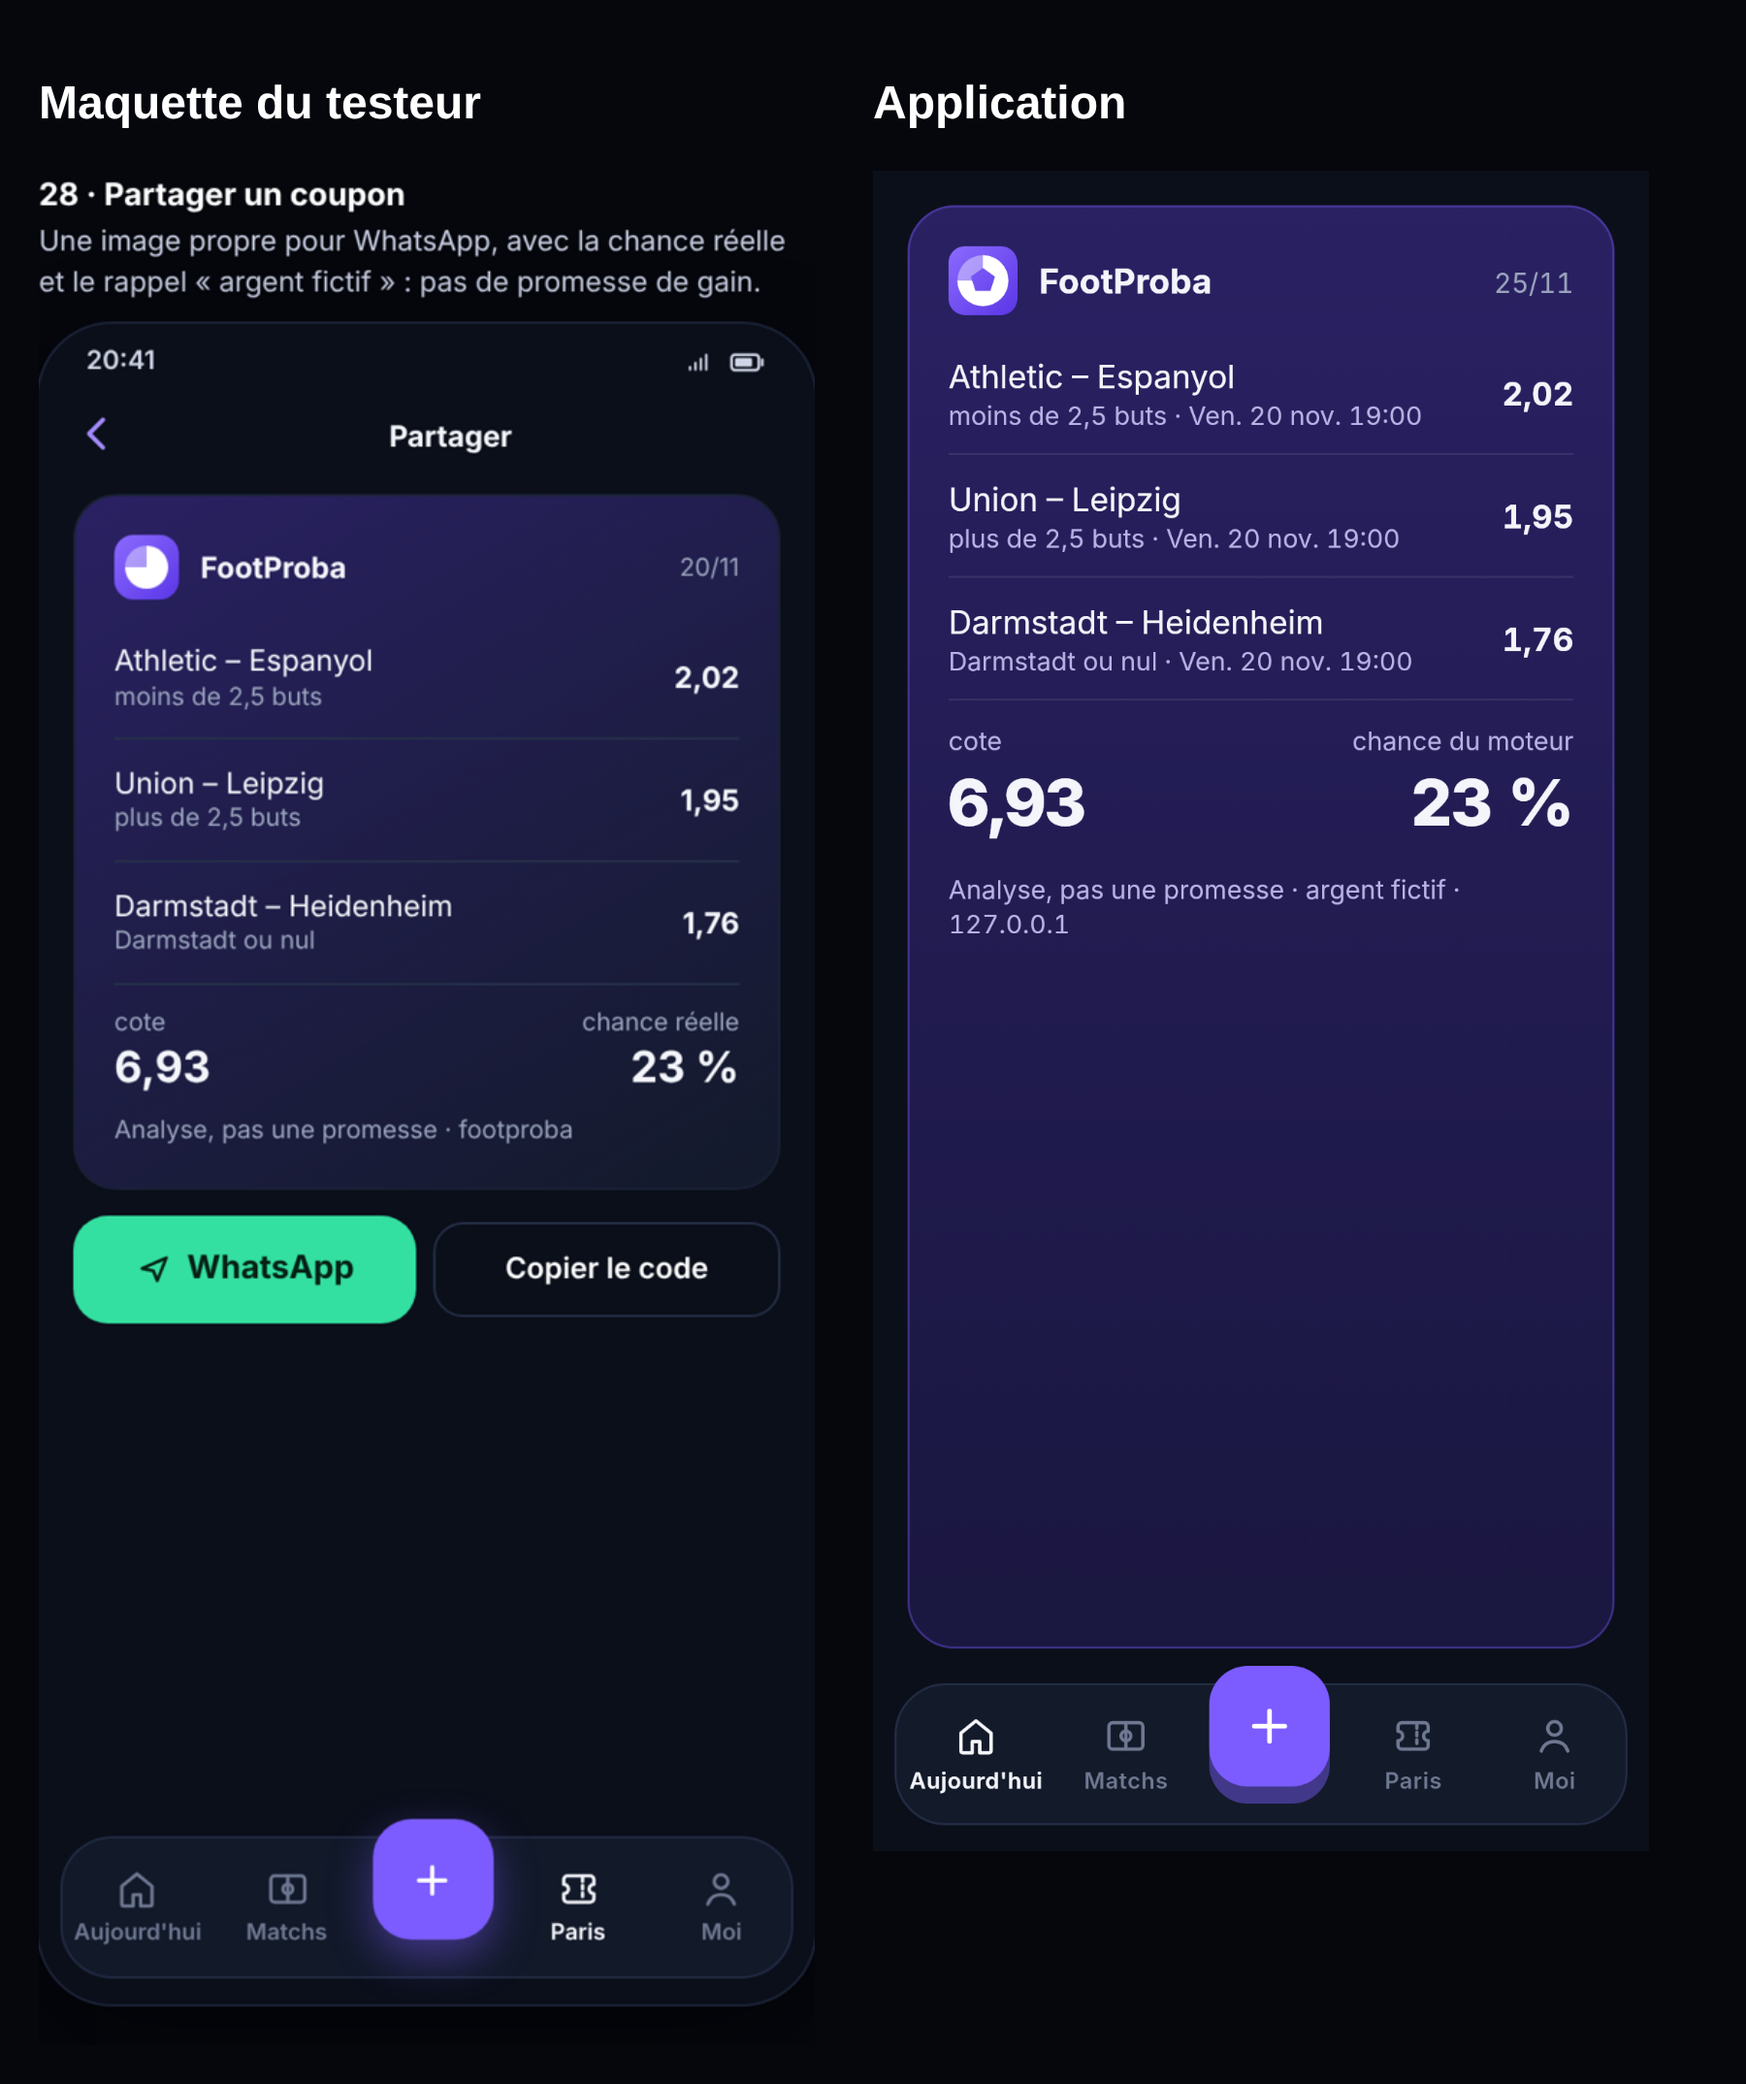
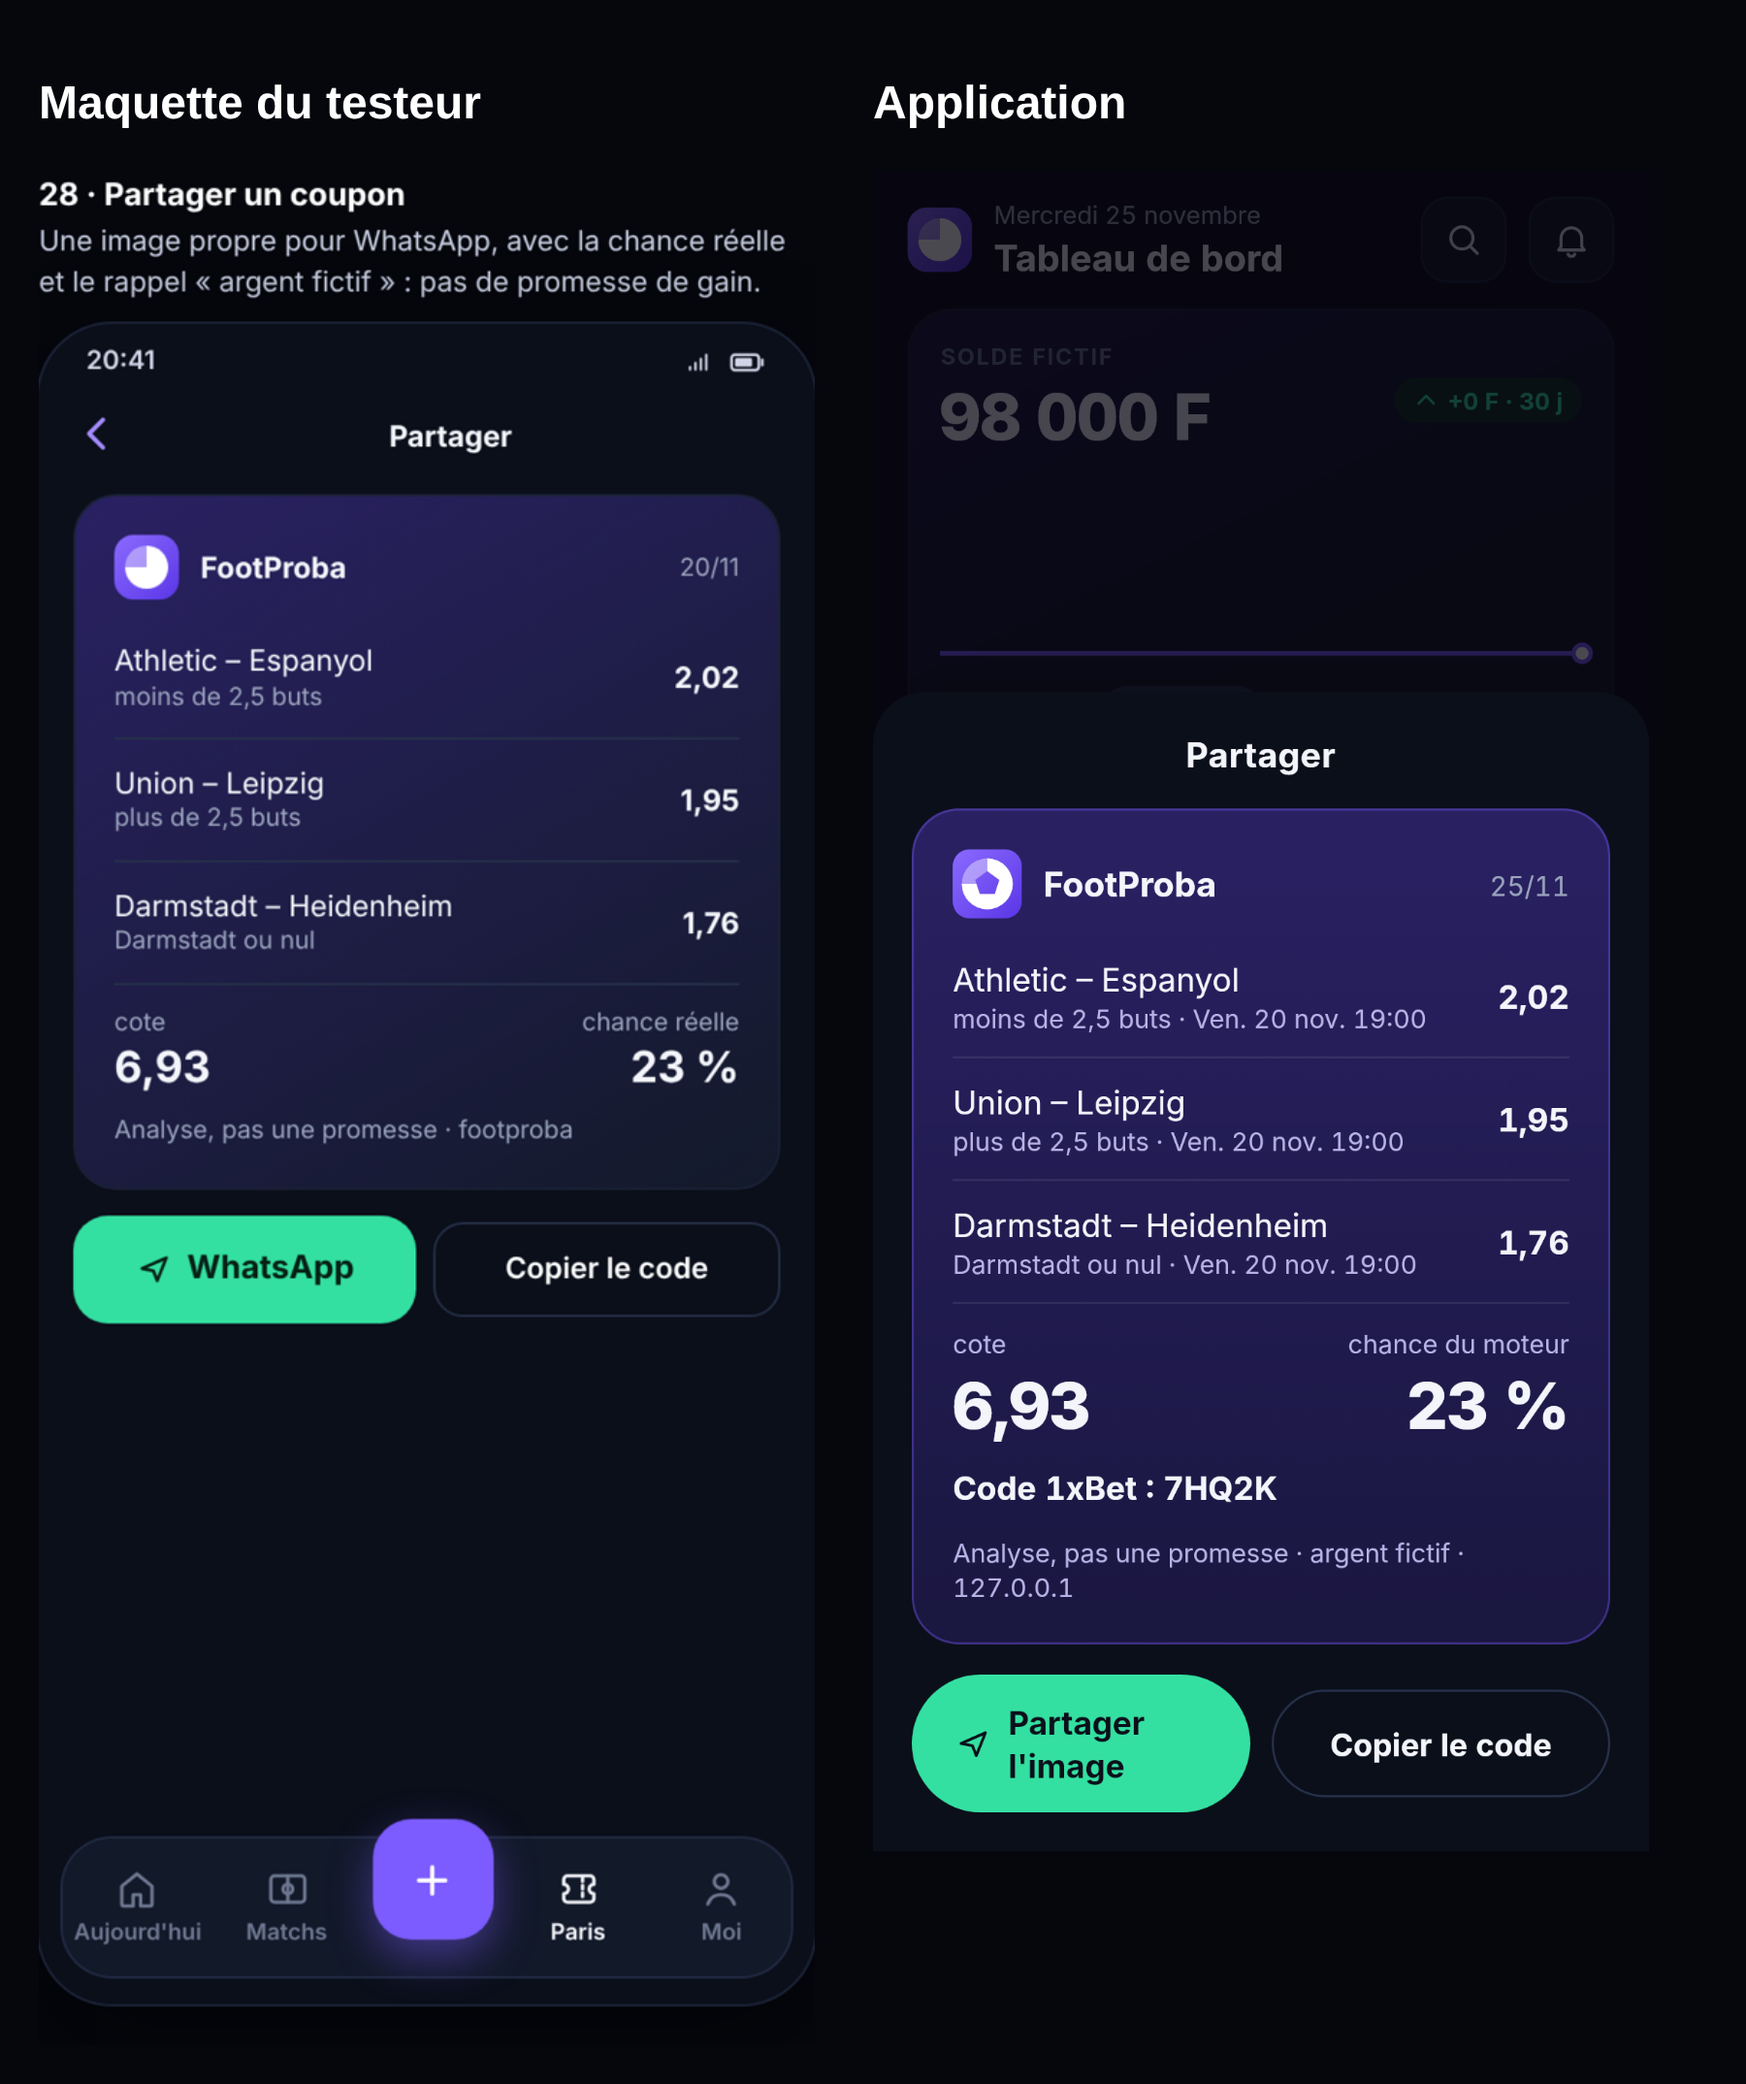
Maquette 28 : écran de partage
Titre « Partager », image à sa taille (plus d'espace vide), bouton vert « Partager »
et « Copier le code » 1xBet à côté quand le coupon en a un.

Claude-Session: https://claude.ai/code/session_01D1BNdygW426Eq3G75yyrXh

diff --git a/app/lib/screens/share_coupon.dart b/app/lib/screens/share_coupon.dart
@@ -2,6 +2,7 @@ import 'dart:ui' as ui;
 
 import 'package:flutter/material.dart';
 import 'package:flutter/rendering.dart';
+import 'package:flutter/services.dart';
 
 import '../api/models.dart';
 import '../format.dart';
@@ -27,7 +28,7 @@ Future<void> shareCoupon(
   return showModalBottomSheet<void>(
     context: context,
     isScrollControlled: true,
-    backgroundColor: Fp.background,
+    backgroundColor: V.bg,
     builder: (context) => SafeArea(
       child: SingleChildScrollView(
         padding: const EdgeInsets.fromLTRB(18, 18, 18, 18),
@@ -35,29 +36,61 @@ Future<void> shareCoupon(
           mainAxisSize: MainAxisSize.min,
           crossAxisAlignment: CrossAxisAlignment.stretch,
           children: [
-            Text('Partager le coupon', style: Fp.title(17)),
-            const SizedBox(height: 12),
+            Text('Partager', textAlign: TextAlign.center, style: V.b(16)),
+            const SizedBox(height: 14),
             RepaintBoundary(
               key: key,
               child: CouponImage(sels: sels, coupon: coupon, profile: profile, big: big),
             ),
             const SizedBox(height: 14),
-            FilledButton.icon(
-              onPressed: () async {
-                try {
-                  final boundary = key.currentContext!.findRenderObject()! as RenderRepaintBoundary;
-                  final image = await boundary.toImage(pixelRatio: 3);
-                  final data = await image.toByteData(format: ui.ImageByteFormat.png);
-                  await ShareBridge.shareImage(
-                    data!.buffer.asUint8List(),
-                    'Mon coupon FootProba (argent fictif)',
-                  );
-                } catch (_) {
-                  showMessage('Partage impossible sur cet appareil.', error: true);
-                }
-              },
-              icon: const Icon(Icons.ios_share_rounded, size: 18),
-              label: const Text('Partager l\'image'),
+            // Maquette 28 : partager en vert, « Copier le code » à côté s'il y a un code 1xBet.
+            Row(
+              children: [
+                Expanded(
+                  child: FilledButton.icon(
+                    style: FilledButton.styleFrom(
+                      backgroundColor: V.mint,
+                      foregroundColor: V.bg,
+                      minimumSize: const Size(0, 50),
+                      textStyle: V.b(15),
+                    ),
+                    onPressed: () async {
+                      try {
+                        final boundary = key.currentContext!.findRenderObject()! as RenderRepaintBoundary;
+                        final image = await boundary.toImage(pixelRatio: 3);
+                        final data = await image.toByteData(format: ui.ImageByteFormat.png);
+                        await ShareBridge.shareImage(
+                          data!.buffer.asUint8List(),
+                          'Mon coupon FootProba (argent fictif)',
+                        );
+                      } catch (_) {
+                        showMessage('Partage impossible sur cet appareil.', error: true);
+                      }
+                    },
+                    icon: const VIc(VIcon.send, size: 17, color: V.bg),
+                    label: const Text('Partager'),
+                  ),
+                ),
+                if (((coupon['booking_codes'] as List?) ?? const []).cast<Json>().firstOrNull
+                    case final b?) ...[
+                  const SizedBox(width: 10),
+                  Expanded(
+                    child: OutlinedButton(
+                      style: OutlinedButton.styleFrom(
+                        foregroundColor: V.tx,
+                        minimumSize: const Size(0, 50),
+                        side: const BorderSide(color: V.line),
+                        textStyle: V.b(14.5),
+                      ),
+                      onPressed: () async {
+                        await Clipboard.setData(ClipboardData(text: '${b['code']}'));
+                        showMessage('Code copié : colle-le dans ${b['label'] ?? b['bookmaker']}.');
+                      },
+                      child: const Text('Copier le code'),
+                    ),
+                  ),
+                ],
+              ],
             ),
           ],
         ),
@@ -101,6 +134,7 @@ class CouponImage extends StatelessWidget {
       child: DefaultTextStyle(
         style: V.t(13.5),
         child: Column(
+          mainAxisSize: MainAxisSize.min,
           crossAxisAlignment: CrossAxisAlignment.stretch,
           children: [
             Row(
